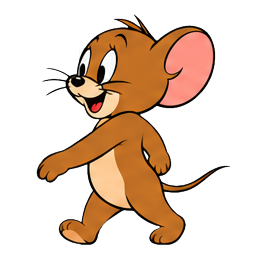
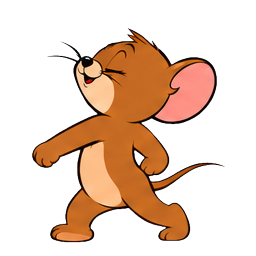
Release approved closed-eye Jerry swagger walk

Changed region(s): [[0.125, 0.0625, 0.9062, 0.9688], [0.4688, 0.5312, 0.5, 0.5625], [0.25, 0.1562, 0.2812, 0.1875]]

diff --git a/README.md b/README.md
@@ -90,6 +90,8 @@ water controls. Voluntary menu logs skip hiding for both characters.
 
 Jerry travel uses 22 cleaned animation frames at 70 ms per frame, rebuilt to
 match the original Jerry character's face, round pink ears, colors and proportions.
+The approved walk has a lifted chin, rolling steps and relaxed closed eyes,
+following the supplied cartoon reference.
 The frames share a fixed canvas; exit mirrors entrance. Travel remains at
 110 points/second. Original idle/blink, hiding, cheer and water-dance poses are
 retained. See docs/Jerry-approved-actions.gif for the approved action preview
